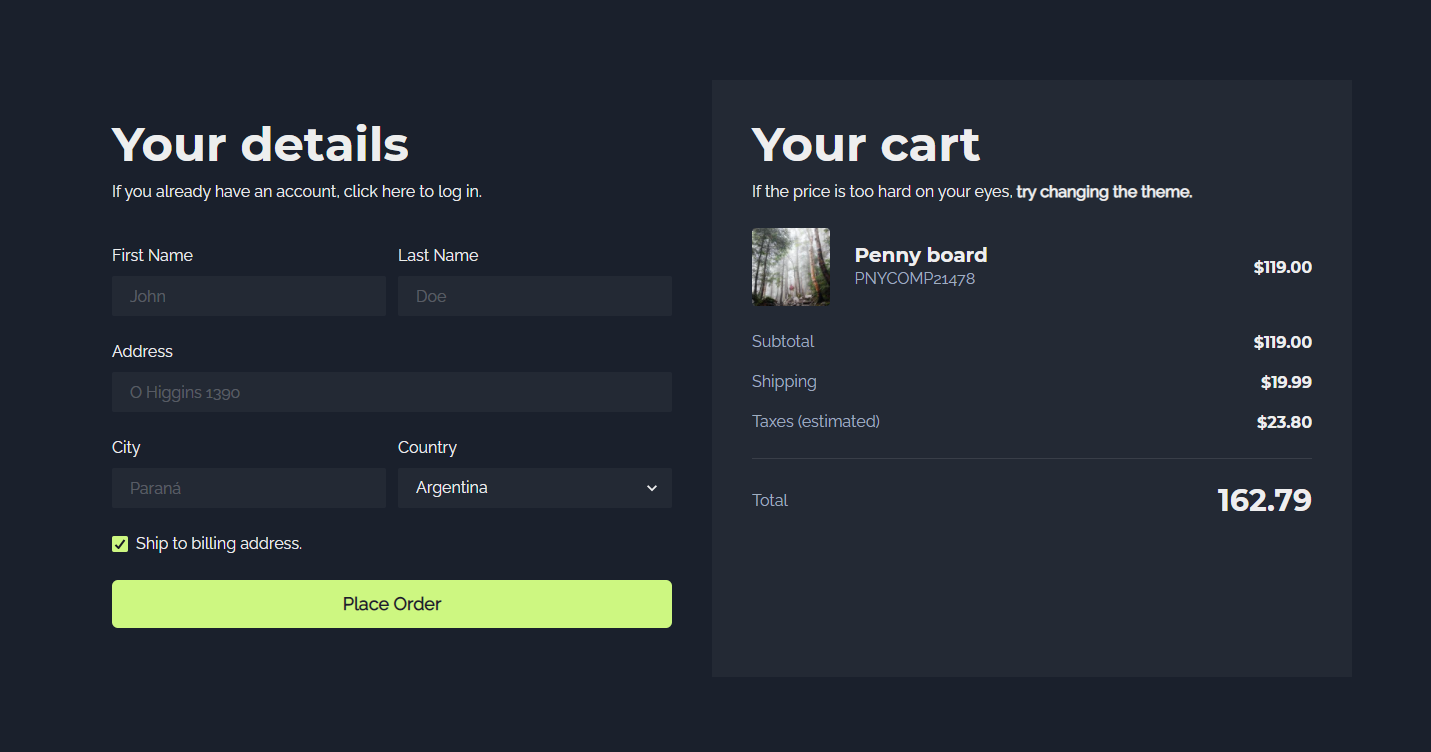
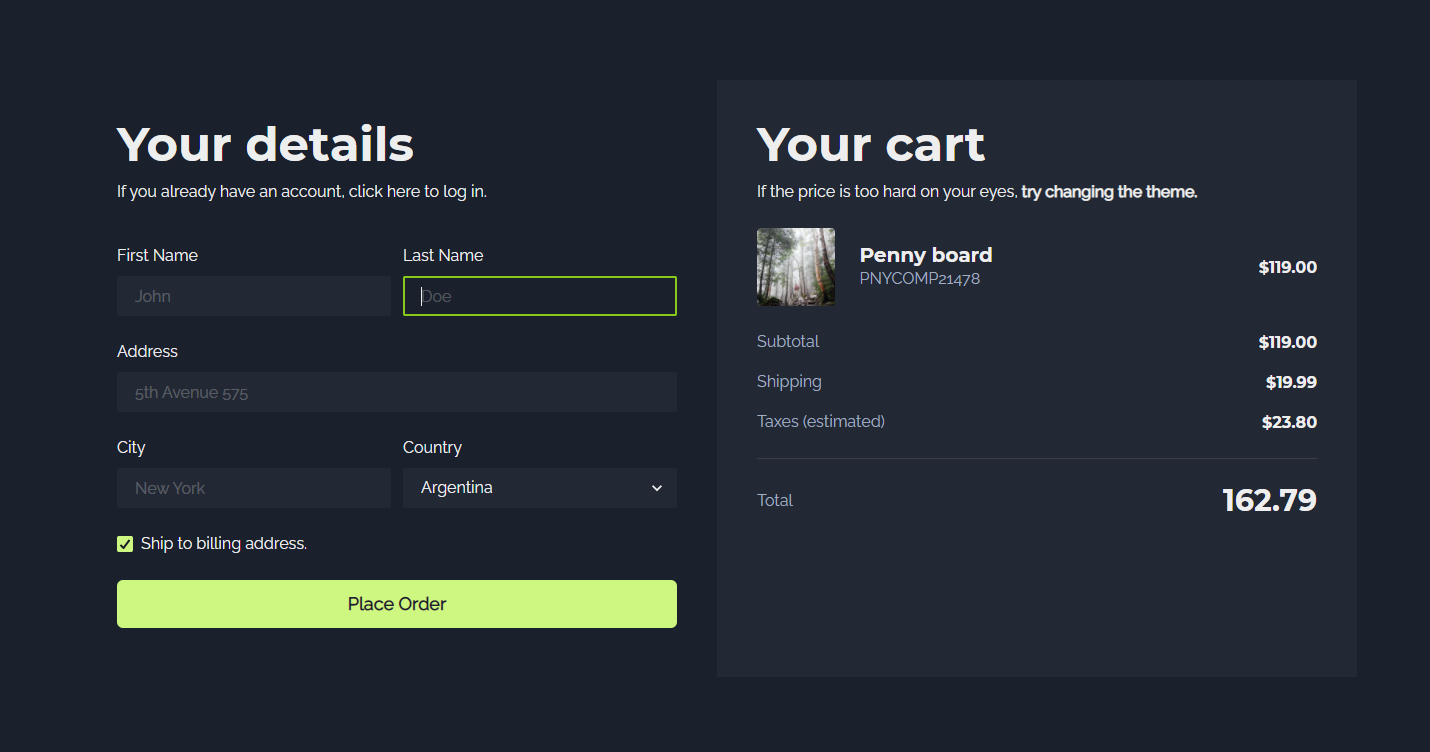
Fixing images

diff --git a/src/components/Details.js b/src/components/Details.js
@@ -39,13 +39,13 @@ const Details = () => {
         <GridItem colSpan={2}>
           <FormControl>
             <FormLabel>Address</FormLabel>
-            <Input placeholder='O Higgins 1390'></Input>
+            <Input placeholder='5th Avenue 575'></Input>
           </FormControl>
         </GridItem>
         <GridItem colSpan={colSpan}>
           <FormControl>
             <FormLabel>City</FormLabel>
-            <Input placeholder='Paraná'></Input>
+            <Input placeholder='New York'></Input>
           </FormControl>
         </GridItem>
         <GridItem colSpan={colSpan}>
